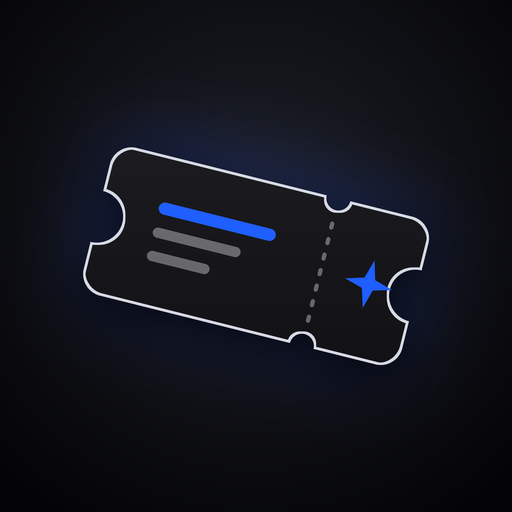
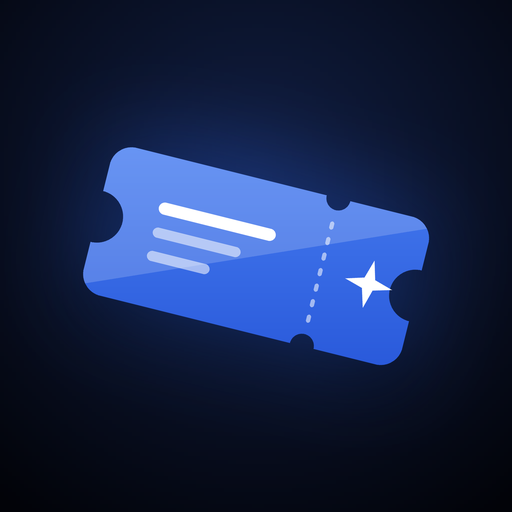
Add files via upload

diff --git a/index.html b/index.html
@@ -7,8 +7,6 @@
 <meta name="mobile-web-app-capable" content="yes">
 <meta name="apple-mobile-web-app-status-bar-style" content="black-translucent">
 <meta name="apple-mobile-web-app-title" content="Lumen">
-<meta name="theme-color" content="#ffffff" media="(prefers-color-scheme: light)">
-<meta name="theme-color" content="#000000" media="(prefers-color-scheme: dark)">
 <link rel="manifest" href="manifest.webmanifest">
 <link rel="apple-touch-icon" href="icon-180.png">
 <link rel="icon" href="icon-180.png">
@@ -168,14 +166,16 @@ textarea{width:100%;min-height:80px;font:13px ui-monospace,monospace;border-radi
 #splash.out{opacity:0;transform:scale(1.12);filter:blur(6px);pointer-events:none}
 .lg{width:150px;height:150px;position:relative;animation:lgIn .75s cubic-bezier(.2,1.4,.4,1) both}
 .lg svg{width:100%;height:100%;display:block;overflow:visible;filter:drop-shadow(0 14px 26px color-mix(in srgb,var(--blue) 45%,transparent))}
-.lg .tk{fill:#141417;fill-opacity:0;animation:draw .8s .05s cubic-bezier(.4,0,.2,1) both,tfill .4s .55s ease forwards;stroke:light-dark(#141417,#d7dae4);stroke-width:2.6;stroke-linejoin:round;stroke-dasharray:520}
+.lg .tk{fill:url(#tkg);transform-box:fill-box;transform-origin:center;animation:tkpop .7s .05s cubic-bezier(.2,1.3,.4,1) both}
+@keyframes tkpop{from{transform:translateX(-60%) rotate(-10deg);opacity:0}}
+.lg .tkg1{stop-color:color-mix(in srgb,var(--blue) 70%,#fff)}.lg .tkg2{stop-color:color-mix(in srgb,var(--blue) 80%,#000)}
 @keyframes draw{from{stroke-dashoffset:520}}
 @keyframes tfill{to{fill-opacity:1}}
 .lg .nt{display:none}
-.lg .pf{stroke:#ffffff59;stroke-width:2.5;stroke-dasharray:5 6;stroke-linecap:round;animation:dash .5s .45s ease-out both}
-.lg .l1{fill:var(--blue);transform-box:fill-box;transform-origin:left;animation:ln .4s .5s ease-out both}
-.lg .l2{fill:#ffffff5c;transform-box:fill-box;transform-origin:left;animation:ln .4s .6s ease-out both}
-.lg .st{fill:var(--blue);transform-box:fill-box;transform-origin:center;animation:star .6s .65s cubic-bezier(.2,1.6,.4,1) both}
+.lg .pf{stroke:#ffffff80;stroke-width:2.5;stroke-dasharray:5 6;stroke-linecap:round;animation:dash .5s .45s ease-out both}
+.lg .l1{fill:#fff;transform-box:fill-box;transform-origin:left;animation:ln .4s .5s ease-out both}
+.lg .l2{fill:#ffffffa0;transform-box:fill-box;transform-origin:left;animation:ln .4s .6s ease-out both}
+.lg .st{fill:#fff;transform-box:fill-box;transform-origin:center;animation:star .6s .65s cubic-bezier(.2,1.6,.4,1) both}
 .lg .shn{position:absolute;inset:22% 8%;border-radius:20px;overflow:hidden;mix-blend-mode:overlay;background:linear-gradient(105deg,transparent 40%,#ffffffcc 50%,transparent 60%) no-repeat;background-size:250% 100%;animation:shine .9s .7s ease-in-out both}
 @keyframes dash{from{stroke-dashoffset:60;opacity:0}}
 @keyframes star{from{transform:scale(0) rotate(-90deg)}}
@@ -196,6 +196,31 @@ textarea{width:100%;min-height:80px;font:13px ui-monospace,monospace;border-radi
 .av{color:var(--warn);font-weight:600}.avs{color:var(--warn);font-size:.45em;vertical-align:top;margin-left:1px}
 .avc{background:color-mix(in srgb,var(--warn) 16%,var(--bg))}.avc .ico{background:var(--bg);font-size:20px}
 .pp.avp{background:var(--warn);color:#1a1000}.pp.avp small{color:#1a1000b0}
+.exp{font-size:15px;color:var(--mute);margin:-2px 0 6px}.exp b{color:var(--blue);font-weight:700}
+.rot{position:fixed;inset:0;z-index:90;background:var(--bg);display:none;place-items:center;text-align:center;padding:20px}
+.rot svg{width:56px;height:56px;color:var(--blue);animation:rotI 1.6s ease-in-out infinite}
+@keyframes rotI{0%,30%{transform:rotate(90deg)}60%,100%{transform:rotate(0)}}
+@media (orientation:landscape) and (max-height:520px){.rot{display:grid}}
+.lv{margin-top:14px;background:var(--tint);border-radius:18px;padding:14px 16px;text-align:left}
+.lvh{font-size:13px;font-weight:600;color:var(--blue);display:flex;align-items:center;gap:8px}
+.dot{width:8px;height:8px;border-radius:50%;background:#34c759;box-shadow:0 0 0 0 #34c75988;animation:pulse 1.6s infinite}
+@keyframes pulse{70%{box-shadow:0 0 0 9px #34c75900}100%{box-shadow:0 0 0 0 #34c75900}}
+.lvn{font:700 34px/1.1 var(--num);letter-spacing:-.02em;margin:6px 0 10px;font-variant-numeric:tabular-nums}.lvn small{font-size:.5em;color:var(--blue)}
+.lvs{font-size:13px;color:var(--mute);margin-top:8px}.lvs b{color:var(--ink)}
+.lv .gbar i{transition:width 1s linear}
+.achh{background:var(--card);border-radius:18px;padding:14px 16px;margin-bottom:14px}
+#achsum{font-size:15px;color:var(--mute);margin-bottom:8px}#achsum b{font:700 26px var(--num);color:var(--ink)}
+.achs{display:grid;gap:10px}
+.ac{display:grid;grid-template-columns:52px minmax(0,1fr);gap:14px;align-items:center;background:var(--card);border-radius:18px;padding:12px 14px;opacity:.6}
+.ac.on{opacity:1}
+.ai{width:52px;height:52px;border-radius:16px;display:grid;place-items:center;font-size:26px;background:var(--bg);filter:grayscale(1)}
+.ac.on .ai{filter:none;background:color-mix(in srgb,var(--tc) 22%,var(--bg));box-shadow:inset 0 0 0 2px color-mix(in srgb,var(--tc) 70%,transparent)}
+.ac.on.t-l .ai{position:relative;overflow:hidden;box-shadow:0 0 18px color-mix(in srgb,var(--blue) 55%,transparent),inset 0 0 0 2px var(--blue)}
+.ac.on.t-l .ai::after{content:"";position:absolute;inset:-50%;background:conic-gradient(from 0deg,transparent 0 70%,#ffffff70 80%,transparent 90%);animation:spin 3s linear infinite}
+@keyframes spin{to{transform:rotate(1turn)}}
+.at b{display:block;font-weight:650}.at span{display:block;font-size:13px;color:var(--mute)}
+.at small{display:block;font-size:12px;margin-top:4px;color:var(--tc);font-weight:700}
+.ap{height:5px;border-radius:3px;background:var(--line);margin-top:7px;overflow:hidden}.ap i{display:block;height:100%;background:var(--tc)}
 .cmp{display:inline-block;margin-top:10px;font-size:13px;font-weight:700;padding:4px 10px;border-radius:999px}
 .cmp.up{color:var(--ok);background:color-mix(in srgb,var(--ok) 14%,var(--bg))}.cmp.dn{color:var(--warn);background:color-mix(in srgb,var(--warn) 14%,var(--bg))}
 .bd{display:grid;grid-template-columns:minmax(0,1fr) 90px 44px;grid-template-rows:auto auto;column-gap:12px;align-items:center;padding:10px 16px;min-height:56px}
@@ -214,7 +239,7 @@ textarea{width:100%;min-height:80px;font:13px ui-monospace,monospace;border-radi
 .view{display:none}.view.on{display:block;animation:vin .32s cubic-bezier(.2,.8,.2,1)}
 @keyframes vin{from{opacity:0}}
 .vh{padding-top:calc(env(safe-area-inset-top) + 12px)}.vh h1{font-size:34px;font-weight:800;letter-spacing:-.025em;margin:6px 0 16px}
-.tabs{position:fixed;left:0;right:0;bottom:0;z-index:5;display:grid;grid-template-columns:repeat(4,1fr);padding:4px 6px calc(4px + env(safe-area-inset-bottom));background:light-dark(#ffffffe0,#000000e0);backdrop-filter:saturate(180%) blur(18px);-webkit-backdrop-filter:saturate(180%) blur(18px);border-top:1px solid var(--line)}
+.tabs{position:fixed;left:0;right:0;bottom:0;z-index:5;display:grid;grid-template-columns:repeat(5,1fr);padding:4px 6px calc(4px + env(safe-area-inset-bottom));background:light-dark(#ffffffe0,#000000e0);backdrop-filter:saturate(180%) blur(18px);-webkit-backdrop-filter:saturate(180%) blur(18px);border-top:1px solid var(--line)}
 .tabs::after{content:"";position:absolute;left:0;right:0;top:100%;height:120px;background:inherit;backdrop-filter:inherit;-webkit-backdrop-filter:inherit}
 html{height:100%;min-height:-webkit-fill-available}
 body{min-height:100vh;min-height:100lvh}
@@ -278,7 +303,7 @@ label.gear{position:relative;overflow:hidden}label.gear input{position:absolute;
 </style>
 </head>
 <body>
-<div id="splash"><div class="lg"><svg viewBox="0 0 200 200" aria-hidden="true"><g transform="rotate(-14 100 100)"><path class="tk" d="M36 62h128a10 10 0 0 1 10 10v16a12 12 0 0 0 0 24v16a10 10 0 0 1-10 10H36a10 10 0 0 1-10-10v-16a12 12 0 0 0 0-24V72a10 10 0 0 1 10-10z"/><circle class="nt" cx="132" cy="62" r="6"/><circle class="nt" cx="132" cy="138" r="6"/><path class="pf" d="M132 74v52"/><rect class="l1" x="52" y="82" width="52" height="6" rx="3"/><rect class="l2" x="52" y="96" width="38" height="5" rx="2.5"/><rect class="l2" x="52" y="108" width="26" height="5" rx="2.5"/><path class="st" d="M154 88l3 9 9 3-9 3-3 9-3-9-9-3 9-3z"/></g></svg></div><div class="wm">Lumen</div><div class="by">Made by <b>Claude</b></div><div class="thx">Special thanks to Dávid</div></div>
+<div id="splash"><div class="lg"><svg viewBox="0 0 200 200" aria-hidden="true"><defs><linearGradient id="tkg" x1="0" y1="0" x2="0" y2="1"><stop class="tkg1" offset="0"/><stop class="tkg2" offset="1"/></linearGradient></defs><g transform="rotate(-14 100 100)"><path class="tk" d="M36 62h128a10 10 0 0 1 10 10v16a12 12 0 0 0 0 24v16a10 10 0 0 1-10 10H36a10 10 0 0 1-10-10v-16a12 12 0 0 0 0-24V72a10 10 0 0 1 10-10z"/><circle class="nt" cx="132" cy="62" r="6"/><circle class="nt" cx="132" cy="138" r="6"/><path class="pf" d="M132 74v52"/><rect class="l1" x="52" y="82" width="52" height="6" rx="3"/><rect class="l2" x="52" y="96" width="38" height="5" rx="2.5"/><rect class="l2" x="52" y="108" width="26" height="5" rx="2.5"/><path class="st" d="M154 88l3 9 9 3-9 3-3 9-3-9-9-3 9-3z"/></g></svg></div><div class="wm">Lumen</div><div class="by">Made by <b>Claude</b></div><div class="thx">Special thanks to Dávid</div></div>
 
 <div class="sb"></div>
 <div class="view on" id="vHome">
@@ -292,6 +317,7 @@ label.gear{position:relative;overflow:hidden}label.gear input{position:absolute;
   <div class="hero rise" style="--i:1">
     <div class="lbl" id="hlbl">Várható fizetés</div>
     <div class="big" id="net">0<small>Ft</small></div>
+    <div id="live"></div>
     <div class="sub" id="msub">–</div>
     <div class="cmp" id="cmp" hidden></div>
     <div class="goal" id="goal" hidden><div class="gbar"><i id="gfill"></i></div><div class="gl"><span id="gl1"></span><span id="gl2"></span></div></div>
@@ -330,6 +356,11 @@ label.gear{position:relative;overflow:hidden}label.gear input{position:absolute;
   <p class="note">Ezekre a napokra dupla bér jár, érdemes beírni őket.</p>
   <div class="grp" id="hols"></div>
 </div></div>
+
+<div class="view" id="vAch"><div class="vh w"><h1>Jelvények</h1></div><main class="w">
+  <div class="achh"><div id="achsum"></div><div class="gbar"><i id="achbar"></i></div></div>
+  <div class="achs" id="achs"></div>
+</main></div>
 
 <div class="view" id="vSet"><div class="vh w"><h1>Beállítások</h1></div><div class="w">
   <div class="gt">Fizetés</div>
@@ -378,11 +409,12 @@ label.gear{position:relative;overflow:hidden}label.gear input{position:absolute;
   </div>
   <textarea id="ctext" hidden readonly aria-label="Másolandó szöveg"></textarea>
   <p class="note">Éjfél után esti bérrel számol, szünetet nem von le. Egy műszakra koppintva átírhatod az idejét. Minden adat csak ezen a telefonon van.</p>
-  <p class="made" id="made">Made by <b>Claude</b><span class="ver">Lumen v8</span></p>
+  <p class="made" id="made">Made by <b>Claude</b><span class="ver">Lumen v9.2</span></p>
 </div></div>
 
-<nav class="tabs" id="tabs"><button class="tb press on" data-v="vHome"><svg viewBox="0 0 24 24" fill="none" stroke="currentColor" stroke-width="2" stroke-linecap="round" stroke-linejoin="round"><path d="M3 11l9-7 9 7v9a1 1 0 0 1-1 1h-5v-6h-6v6H4a1 1 0 0 1-1-1z"/></svg><span>Főoldal</span></button><button class="tb press" data-v="vMates"><svg viewBox="0 0 24 24" fill="none" stroke="currentColor" stroke-width="2" stroke-linecap="round" stroke-linejoin="round"><circle cx="9" cy="8" r="3.5"/><path d="M2.5 20c.6-3.6 3.2-5.5 6.5-5.5s5.9 1.9 6.5 5.5"/><circle cx="17" cy="9" r="2.6"/><path d="M16.5 14.6c2.6.2 4.4 1.9 5 5.4"/></svg><span>Kollégák</span></button><button class="tb press" data-v="vGoal"><svg viewBox="0 0 24 24" fill="none" stroke="currentColor" stroke-width="2" stroke-linecap="round" stroke-linejoin="round"><circle cx="12" cy="12" r="9"/><circle cx="12" cy="12" r="5"/><circle cx="12" cy="12" r="1.4"/></svg><span>Cél</span></button><button class="tb press" data-v="vSet"><svg viewBox="0 0 24 24" fill="none" stroke="currentColor" stroke-width="2" stroke-linecap="round" stroke-linejoin="round"><path d="M4 7h10M18 7h2M4 17h4M12 17h8"/><circle cx="16" cy="7" r="2.3"/><circle cx="10" cy="17" r="2.3"/></svg><span>Beállítások</span></button></nav>
+<nav class="tabs" id="tabs"><button class="tb press on" data-v="vHome"><svg viewBox="0 0 24 24" fill="none" stroke="currentColor" stroke-width="2" stroke-linecap="round" stroke-linejoin="round"><path d="M3 11l9-7 9 7v9a1 1 0 0 1-1 1h-5v-6h-6v6H4a1 1 0 0 1-1-1z"/></svg><span>Főoldal</span></button><button class="tb press" data-v="vMates"><svg viewBox="0 0 24 24" fill="none" stroke="currentColor" stroke-width="2" stroke-linecap="round" stroke-linejoin="round"><circle cx="9" cy="8" r="3.5"/><path d="M2.5 20c.6-3.6 3.2-5.5 6.5-5.5s5.9 1.9 6.5 5.5"/><circle cx="17" cy="9" r="2.6"/><path d="M16.5 14.6c2.6.2 4.4 1.9 5 5.4"/></svg><span>Kollégák</span></button><button class="tb press" data-v="vGoal"><svg viewBox="0 0 24 24" fill="none" stroke="currentColor" stroke-width="2" stroke-linecap="round" stroke-linejoin="round"><circle cx="12" cy="12" r="9"/><circle cx="12" cy="12" r="5"/><circle cx="12" cy="12" r="1.4"/></svg><span>Cél</span></button><button class="tb press" data-v="vAch"><svg viewBox="0 0 24 24" fill="none" stroke="currentColor" stroke-width="2" stroke-linecap="round" stroke-linejoin="round"><path d="M8 21h8M12 17v4M7 4h10v5a5 5 0 0 1-10 0z"/><path d="M17 5h3v2a3 3 0 0 1-3 3M7 5H4v2a3 3 0 0 0 3 3"/></svg><span>Jelvények</span></button><button class="tb press" data-v="vSet"><svg viewBox="0 0 24 24" fill="none" stroke="currentColor" stroke-width="2" stroke-linecap="round" stroke-linejoin="round"><path d="M4 7h10M18 7h2M4 17h4M12 17h8"/><circle cx="16" cy="7" r="2.3"/><circle cx="10" cy="17" r="2.3"/></svg><span>Beállítások</span></button></nav>
 <div class="wrp" id="wr" hidden><div class="wbars" id="wbars"></div><button class="wx" id="wx" aria-label="Bezárás">×</button><div class="ws" id="ws"></div><div class="wtap"><span id="wprev"></span><span id="wnext"></span></div></div>
+<div class="rot" aria-hidden="true"><div><svg viewBox="0 0 24 24" fill="none" stroke="currentColor" stroke-width="2" stroke-linecap="round" stroke-linejoin="round"><rect x="7" y="2" width="10" height="20" rx="2.5"/><path d="M11 18h2"/></svg><p style="margin:14px 0 0;font-weight:600">Fordítsd álló helyzetbe a telefont</p></div></div>
 <div class="toast" id="toast" role="status"></div>
 <div class="scrim" id="scrim" hidden></div>
 <div class="sheet" id="sheet" role="dialog" aria-modal="true" hidden><div class="grip"></div><div id="sbody" style="display:flex;flex-direction:column;min-height:0"></div></div>
@@ -478,12 +510,13 @@ function render(){
   const rows=days.map(d=>{const c=calc(d);tot+=c.pay;dm+=c.dm;em+=c.em;hx+=c.hx;return{d,c}});
   const fee=days.length?S.fee:0,net=Math.max(0,tot-fee);
   const isPast=cur<today.slice(0,7);
-  $("hlbl").textContent=isPast?`Keresett · ${HU_M[mo-1]}`:`Várható fizetés · ${HU_M[mo-1]}`;
-  countTo($("net"),net);
+  const isFut=cur>today.slice(0,7);let earned=0;{let pp=0,np=0;rows.forEach(({d,c})=>{if(d<today&&!c.e.bad){pp+=c.pay;np++}});earned=np?Math.max(0,pp-S.fee):0}
+  $("hlbl").textContent=isPast?`Keresett · ${HU_M[mo-1]}`:isFut?`Beosztva · ${HU_M[mo-1]}`:`Eddig keresett · ${HU_M[mo-1]}`;
+  HERO={cur:!isPast&&!isFut,base:earned};countTo($("net"),isPast||isFut?(isPast?net:0):earned+liveNow().part);
   const left=days.filter(d=>d>=today).length;
   $("msub").textContent=!DATA.at?"Töltsd be a beosztásodat a lenti gombbal":days.length?`${days.length} műszak · ${hrs(dm+em)} óra`+(left?` · ${left} még hátra`:""):"Ebben a hónapban nincs műszakod";
   const g=$("goal");g.hidden=!(S.goal>0&&DATA.at);
-  if(!g.hidden){const p=Math.min(100,net/S.goal*100);requestAnimationFrame(()=>$("gfill").style.width=p+"%");$("gl1").textContent=`Cél: ${ft(S.goal)}`;$("gl2").textContent=net>=S.goal?"Megvan ✓":`még ${ft(S.goal-net)}`}
+  if(!g.hidden){const gv=isPast?net:earned;const p=Math.min(100,gv/S.goal*100);requestAnimationFrame(()=>$("gfill").style.width=p+"%");$("gl1").textContent=`Cél: ${ft(S.goal)}`;$("gl2").textContent=gv>=S.goal?"Megvan ✓":`még ${ft(S.goal-gv)}`}
   const br=[[`${hrs(dm)} óra × ${fmt(S.r1)} Ft`,dm/60*S.r1],[`${hrs(em)} óra × ${fmt(S.r2)} Ft`,em/60*S.r2],["Ünnepnapi pótlék",hx],["Rendszerhasználat",-fee]].filter(r=>Math.round(r[1]));
   $("brk").innerHTML=(br.map(r=>`<div><span>${r[0]}</span><span>${r[1]<0?"−"+ft(-r[1]):ft(r[1])}</span></div>`).join("")||"<div><span>Nincs mit részletezni</span></div>")+(br.length?`<div style="border-top:1px solid var(--line);padding-top:6px;font-weight:700"><span>Összesen</span><span>${ft(net)}</span></div>`:"");
   $("tg").hidden=!days.length;
@@ -497,14 +530,31 @@ function render(){
    if(DATA.at&&days.length&&pv>0){const df=Math.round((net-pv)/pv*100);cel.hidden=false;cel.className="cmp "+(df>=0?"up":"dn");cel.textContent=`${df>=0?"▲":"▼"} ${Math.abs(df)}% ${HU_HOZ[pm-1]} képest`}else cel.hidden=true}
   const n=pending().length+dlPend().length;$("icst").textContent=n?`Naptárba (${n})`:"Naptárba";
   $("whoname").textContent=S.name||"nincs megadva";
-  renderCards();renderStats();renderHist();renderHols();if(typeof renderWl==="function")renderWl();
+  renderCards();renderStats();renderHist();renderHols();liveCard();if(typeof checkAch==="function")checkAch(!BOOTED);if(typeof renderWl==="function")renderWl();
 }
 function card(ic,t,v,blue){return `<div class="nc${blue?" b":""}"><div class="ico">${I[ic]}</div><div><div class="nt">${t}</div><div class="nv">${v}</div></div></div>`}
+let HERO={cur:false,base:0};
+function payPart(d,uptoAbs){const e=eff(d);if(e.bad)return 0;const c=calc(d);let a=e.a,b=c.end;const lim=Math.min(b,uptoAbs);let pay=0;for(let m=a;m<lim;m++){const off=Math.floor(m/1440),mm=m%1440,day=off?addD(d,off):d;const evn=mm>=1080||mm<360;pay+=((evn?S.r2:S.r1)/60)*(isHol(day)?S.hol:1)}
+  if(lim>a&&lim<b){const m=Math.floor(lim),fr=lim-m,off=Math.floor(m/1440),mm=m%1440,day=off?addD(d,off):d,evn=mm>=1080||mm<360;pay+=((evn?S.r2:S.r1)/60)*(isHol(day)?S.hol:1)*fr}return pay}
+function liveNow(){const n=new Date(),t=iso(n);for(const d of [addD(t,-1),t]){if(!(d in DATA.shifts))continue;const e=eff(d);if(e.bad)continue;const c=calc(d);const rel_=(n-pd(d))/6e4;if(rel_>=e.a&&rel_<c.end)return{d,e,c,rel:rel_,part:payPart(d,rel_)}}return{part:0}}
+function liveCard(){const n=new Date(),t=iso(n),L=liveNow(),el=$("live");
+  if(L.d){const tot=L.c.pay,left=L.c.end-L.rel,p=(L.rel-L.e.a)/(L.c.end-L.e.a)*100;
+    if(!el.dataset.on){el.dataset.on="1";el.innerHTML=`<div class="lv"><div class="lvh"><span class="dot"></span>Most dolgozol · ${hm(L.e.a)}–${hm(L.c.end%1440)}</div><div class="lvn" id="lvn"></div><div class="gbar"><i id="lvb"></i></div><div class="lvs" id="lvs"></div></div>`}
+    $("lvn").innerHTML=L.part.toLocaleString("hu-HU",{minimumFractionDigits:2,maximumFractionDigits:2}).replace(/[\u00a0\u202f]/g," ")+"<small> Ft</small>";$("lvb").style.width=p+"%";
+    $("lvs").textContent=`a ${ft(tot)}-ból · még ${Math.floor(left/60)} ó ${Math.floor(left%60)} p · ${fmt((L.rel<1080?S.r1:S.r2)*(isHol(t)?S.hol:1))} Ft/óra`;
+    if(HERO.cur&&cur===today.slice(0,7)){$("net").innerHTML=fmt(HERO.base+L.part)+"<small>Ft</small>"}return}
+  el.dataset.on="";
+  if(DATA.at&&(t in DATA.shifts)){const e=eff(t);if(!e.bad){const c=calc(t),now=(n-pd(t))/6e4;if(now<e.a){const w=e.a-now;el.innerHTML=`<div class="lv pre"><div class="lvh">Ma ${hm(e.a)}-tól</div><div class="lvs" style="margin:0"><b>${ft(c.pay)}</b> vár rád · ${Math.floor(w/60)} ó ${Math.floor(w%60)} p múlva kezdesz</div></div>`;return}}}
+  el.innerHTML=""}
+setInterval(liveCard,1000);
+function weekCard(){const t=new Date(),wd=(t.getDay()+6)%7,mon=addD(today,-wd),sun=addD(mon,6);const ds=Object.keys(DATA.shifts).filter(d=>d>=mon&&d<=sun&&!eff(d).bad);if(!ds.length)return"";
+  let p=0,m=0,done=0;ds.forEach(d=>{const c=calc(d);p+=c.pay;m+=c.mins;if(d<today)done+=c.pay});return card("cal","Ezen a héten",`${ds.length} műszak · ${hrs(m)} óra · <em>${ft(p)}</em>${done&&done<p?` <span style="color:var(--mute);font-weight:500">(${ft(done)} már megvan)</span>`:""}`)}
 function renderCards(){
   const out=[];
   if(DATA.at){
     const fut=Object.keys(DATA.shifts).filter(d=>d>=today&&!eff(d).bad).sort();
-    if(fut.length){const d=fut[0],c=calc(d),dt=pd(d);out.push(card("clk","Következő műszak",`${HU_DL[dt.getDay()]}, ${hday(d)} · ${hm(c.e.a)}–${hm(c.end%1440)} <em>· ${rel(d)}</em>`,true));if(avOn(d)){const nm=matesOf(d,eff(d),c).find(isAv);out.push(`<div class="nc avc"><div class="ico">⚡</div><div><div class="nt">${esc(first(nm))} is veled lesz ${rel(d)}</div><div class="nv">${esc(S.avm||AVD)}</div></div></div>`)}}
+    if(fut.length){const d=fut[0],c=calc(d),dt=pd(d);out.push(card("clk","Következő műszak",`${HU_DL[dt.getDay()]}, ${hday(d)} · ${hm(c.e.a)}–${hm(c.end%1440)} <em>· ${liveNow().d===d?"most zajlik":rel(d)}</em>`,true));if(avOn(d)){const nm=matesOf(d,eff(d),c).find(isAv);out.push(`<div class="nc avc"><div class="ico">⚡</div><div><div class="nt">${esc(first(nm))} is veled lesz ${rel(d)}</div><div class="nv">${esc(S.avm||AVD)}</div></div></div>`)}}
+    {const wc=weekCard();if(wc)out.push(wc)}
     const w=(DATA.weeks||[])[0];
     if(w&&w.dl){const dl=new Date(w.dl),ms=dl-NOW;if(ms>0){const days=Math.floor(ms/864e5),h=Math.floor(ms/36e5);const left=days>=1?`még ${days} nap`:`még ${h} óra`;const end=addD(w.start,6);
       out.push(card("pen",`Kérelem a ${hday(w.start)}–${hday(end)} hétre`,`Határidő: ${hday(iso(dl))} ${pad(dl.getHours())}:${pad(dl.getMinutes())} · ${w.req?`<em>${left}, ${w.req} napot beadtál</em>`:`<span class="wr">${left}, még nem adtad le</span>`}`,!w.req))}}
@@ -718,11 +768,74 @@ $("avb").onclick=async()=>{const names=(X&&X.names)||DATA.names||[];if(!names.le
 $("avm").value=S.avm||"";$("avm").addEventListener("change",()=>{S.avm=$("avm").value.trim();ls.set("mm.set",S);render()});$("avn").textContent=S.av?first(S.av):"nincs";
 $("secret").hidden=!S.secret;$("favn").textContent=S.fav?first(S.fav):"nincs";
 
+
+/* jelvények */
+const TIER={b:["Bronz","#c98a55"],s:["Ezüst","#aeb6c4"],g:["Arany","#f5c542"],l:["SV TYPE","var(--blue)"]};
+function achStats(){const all=Object.keys(DATA.shifts).filter(d=>d<today&&!eff(d).bad).sort();let min=0,pay=0,wk=0,sun=0,cl=0,op=0,late=0,long=0,hol=0,xmas=0,nye=0,ny1=0;const mons={};
+  all.forEach(d=>{const e=eff(d),c=calc(d),raw=String(DATA.shifts[d]||"").toLowerCase(),wd=pd(d).getDay();min+=c.mins;pay+=c.pay;if(wd===0||wd===6)wk++;if(wd===0)sun++;if(/z\s*$/.test(raw))cl++;if(/^\s*ny/.test(raw)||e.a<=600)op++;if(c.end>=1410)late++;if(c.mins>=600)long++;if(isHol(d))hol++;if(/-12-2[456]$/.test(d))xmas++;if(/-12-31$/.test(d))nye++;if(/-01-01$/.test(d))ny1++});
+  const ms=[...new Set(all.map(d=>d.slice(0,7)))];let best=0,tot=0;ms.forEach(m=>{const v=mSum(m).past;tot+=v;best=Math.max(best,v)});
+  let st=all.length?1:0,bs=st;for(let i=1;i<all.length;i++){if(dd(all[i-1],all[i])===1){st++;bs=Math.max(bs,st)}else st=1}
+  const C={};all.forEach(d=>matesOf(d,eff(d),calc(d)).forEach(n=>{const k=norm(n);C[k]=(C[k]||0)+1}));const ppl=Object.keys(C).length,top=Math.max(0,...Object.values(C));
+  const fav=S.fav?C[norm(S.fav)]||0:0,av=S.av?C[norm(S.av)]||0:0;
+  const W=(DATA.weeks||[]).filter(w=>w.start<today&&w.req>0);const perfect=W.filter(w=>w.req>=3&&w.got>=w.req).length;
+  const goalN=S.goal>0?ms.filter(m=>mSum(m).past>=S.goal).length:0;
+  return{n:all.length,h:min/60,tot,best,bs,wk,sun,cl,op,late,long,hol,xmas,nye,ny1,ppl,top,fav,av,weeks:W.length,perfect,notes:Object.keys(NOTES).length,goalN,secret:!!S.secret,bk:!!S.bk,wr:!!S.wr,acc:!!S.accent,cal:Object.keys(EXP).length>0}}
+const ACH=[
+ ["s50","🎟","Törzstag","50 műszak","b",x=>x.n,50],
+ ["s150","🎬","Veterán","150 műszak","s",x=>x.n,150],
+ ["s300","🏅","A mozi lelke","300 műszak","g",x=>x.n,300],
+ ["s600","👑","Örök jegykezelő","600 műszak","l",x=>x.n,600],
+ ["h200","⏱","200 óra","200 ledolgozott óra","b",x=>x.h,200],
+ ["h500","⌛","500 óra","500 ledolgozott óra","s",x=>x.h,500],
+ ["h1000","🕰","Ezer óra","1000 ledolgozott óra","g",x=>x.h,1000],
+ ["h3000","🌌","Háromezer óra","3000 ledolgozott óra","l",x=>x.h,3000],
+ ["f250k","💵","Negyedmillás","250 000 Ft összesen","b",x=>x.tot,25e4],
+ ["f500k","💰","Félmillás","500 000 Ft összesen","s",x=>x.tot,5e5],
+ ["f1m","💎","Milliomos","1 000 000 Ft összesen","g",x=>x.tot,1e6],
+ ["f3m","🏦","Hárommilliós","3 000 000 Ft összesen","l",x=>x.tot,3e6],
+ ["m150","📈","Erős hónap","Egy hónapban 150 000 Ft","b",x=>x.best,15e4],
+ ["m200","🚀","Rekordhónap","Egy hónapban 200 000 Ft","s",x=>x.best,2e5],
+ ["m300","🌠","Kasszasiker","Egy hónapban 300 000 Ft","g",x=>x.best,3e5],
+ ["m350","🪐","Teltház","Egy hónapban 350 000 Ft","l",x=>x.best,35e4],
+ ["st3","🔥","Lendületben","3 nap egymás után","b",x=>x.bs,3],
+ ["st4","⚡","Teljes hét","4 nap egymás után","s",x=>x.bs,4],
+ ["st6","💫","Két hét határán","6 nap egymás után","g",x=>x.bs,6],
+ ["st8","☄","Megállíthatatlan","8 nap egymás után","l",x=>x.bs,8],
+ ["wk50","🗓","Hétvégi harcos","50 hétvégi műszak","g",x=>x.wk,50],
+ ["sun30","☀","Vasárnapi rutin","30 vasárnapi műszak","s",x=>x.sun,30],
+ ["cl50","🌙","Zárókirály","50 zárás","g",x=>x.cl,50],
+ ["op50","🌅","Nyitómester","50 nyitás","g",x=>x.op,50],
+ ["late25","🦉","Éjjeli bagoly","25 műszak 23:30 utáni végzéssel","s",x=>x.late,25],
+ ["long","🏃","Maraton","Egy legalább 10 órás műszak","g",x=>x.long,1],
+ ["hol3","🎉","Ünnepi hős","3 ünnepnapi műszak","s",x=>x.hol,3],
+ ["hol10","🎆","Duplázó","10 ünnepnapi műszak","l",x=>x.hol,10],
+ ["xmas","🎄","Karácsonyi angyal","Dolgoztál dec. 24–26. között","g",x=>x.xmas,1,1],
+ ["nye","🥂","Szilveszteri vetítés","Dolgoztál dec. 31-én","g",x=>x.nye,1,1],
+ ["ny1","🎇","Újévi premier","Dolgoztál jan. 1-jén","g",x=>x.ny1,1,1],
+ ["ppl50","🤝","Csapatjátékos","50 különböző kollégával dolgoztál","s",x=>x.ppl,50],
+ ["ppl100","🌍","Mindenki ismer","100 különböző kollégával dolgoztál","g",x=>x.ppl,100],
+ ["bff","👯","Legjobb haver","50 közös műszak ugyanazzal a kollégával","g",x=>x.top,50],
+ ["fav","✦","Csillagjegy","25 közös műszak a különleges kollégával","l",x=>x.fav,25,1],
+ ["av","🛡","Túlélő","15 műszakot kibírtál a figyelmeztető kollégával","g",x=>x.av,15,1],
+ ["perf","🎯","Mesterlövész","5 héten minden beírt napot megkaptál (min. 3)","g",x=>x.perfect,5],
+ ["w40","📮","Kitartó","40 hétre írtál be","s",x=>x.weeks,40],
+ ["goal","🏁","Célratörő","3 hónapban teljesítetted a havi célodat","g",x=>x.goalN,3],
+ ["notes","📝","Naplóíró","25 jegyzet a műszakjaidhoz","b",x=>x.notes,25],
+ ["sec","🕵","Felfedező","Megtaláltad a titkot","b",x=>x.secret?1:0,1,1],
+ ["wr","🎞","Évértékelő","Megnézted a Wrappedet","b",x=>x.wr?1:0,1,1],
+];
+let ACHD=ls.get("mm.ach2",{});
+function checkAch(silent){if(!DATA.at)return;const x=achStats(),nw=[];ACH.forEach(a=>{if(ACHD[a[0]]&&a[5](x)<a[6])delete ACHD[a[0]]});ACH.forEach(a=>{if(!ACHD[a[0]]&&a[5](x)>=a[6]){ACHD[a[0]]=today;nw.push(a)}});if(nw.length){ls.set("mm.ach2",ACHD);if(!silent){const a=nw[nw.length-1];setTimeout(()=>{toast(`${a[1]} Új jelvény: ${a[2]}${nw.length>1?` (+${nw.length-1})`:""}`);if(nw.some(z=>z[4]==="l"||z[4]==="g"))confetti()},700)}}}
+function renderAch(){const x=achStats(),got=ACH.filter(a=>ACHD[a[0]]).length;$("achsum").innerHTML=`<b>${got}</b> / ${ACH.length} jelvény`;$("achbar").style.width=got/ACH.length*100+"%";
+  const ord={l:0,g:1,s:2,b:3};const L=[...ACH].sort((a,b)=>(!!ACHD[b[0]])-(!!ACHD[a[0]])||ord[a[4]]-ord[b[4]]);
+  $("achs").innerHTML=L.map(a=>{const on=!!ACHD[a[0]],v=a[5](x),pr=Math.min(1,v/a[6]),hid=a[7]&&!on,[tn,tc]=TIER[a[4]];
+   return `<div class="ac${on?" on":""} t-${a[4]}" style="--tc:${tc}"><div class="ai">${hid?"?":a[1]}</div><div class="at"><b>${hid?"Titkos jelvény":esc(a[2])}</b><span>${hid?"Még nem fedezted fel":esc(a[3])}</span>${on?`<small>${tn} · ${hday(ACHD[a[0]])}</small>`:`<div class="ap"><i style="width:${pr*100}%"></i></div><small>${tn}${a[6]>1&&!hid?` · ${fmt(Math.min(v,a[6]))} / ${fmt(a[6])}`:""}</small>`}</div></div>`}).join("")}
+
 /* tabs */
 let view="vHome";
 function enter(root){if(matchMedia("(prefers-reduced-motion: reduce)").matches)return;const els=[...root.querySelectorAll(":scope>.vh, :scope>.w>*, :scope>main>*, :scope>header, :scope>main>.hero, :scope>main>.cards, :scope>main>section")].filter((e,i,a)=>a.indexOf(e)===i&&e.offsetParent!==null).slice(0,10);
   els.forEach((e,i)=>e.animate([{opacity:0,transform:"translateY(14px)"},{opacity:1,transform:"none"}],{duration:420,delay:i*45,easing:"cubic-bezier(.2,.8,.2,1)",fill:"backwards"}))}
-function show(v){if(v===view)return;view=v;document.querySelectorAll(".view").forEach(x=>x.classList.toggle("on",x.id===v));document.querySelectorAll(".tb").forEach(b=>b.classList.toggle("on",b.dataset.v===v));window.scrollTo(0,0);if(v==="vMates")renderMates();if(v==="vGoal")renderGoal();enter($(v));const tb=document.querySelector(`.tb[data-v="${v}"] svg`);if(tb)tb.animate([{transform:"scale(.7)"},{transform:"scale(1.15)"},{transform:"scale(1.06) translateY(-1px)"}],{duration:380,easing:"cubic-bezier(.2,1.4,.4,1)"})}
+function show(v){if(v===view)return;view=v;document.querySelectorAll(".view").forEach(x=>x.classList.toggle("on",x.id===v));document.querySelectorAll(".tb").forEach(b=>b.classList.toggle("on",b.dataset.v===v));window.scrollTo(0,0);if(v==="vMates")renderMates();if(v==="vGoal")renderGoal();if(v==="vAch")renderAch();enter($(v));const tb=document.querySelector(`.tb[data-v="${v}"] svg`);if(tb)tb.animate([{transform:"scale(.7)"},{transform:"scale(1.15)"},{transform:"scale(1.06) translateY(-1px)"}],{duration:380,easing:"cubic-bezier(.2,1.4,.4,1)"})}
 $("tabs").addEventListener("click",e=>{const b=e.target.closest("[data-v]");if(b)show(b.dataset.v)});
 
 /* kollégák */
@@ -791,7 +904,7 @@ function wshow(i){if(i<0)i=0;if(i>=WS.length){wclose();return}wi=i;clearTimeout(
   $("ws").querySelectorAll("[data-c]").forEach(el=>{const to=+el.dataset.c,t0=performance.now(),isF=el.hasAttribute("data-ft"),isP=el.hasAttribute("data-p");const st=t=>{const k=Math.min(1,(t-t0)/1100),v=Math.round(to*(1-Math.pow(1-k,3)));el.innerHTML=fmt(v)+(isF?"<small>Ft</small>":isP?"<small>%</small>":"");if(k<1)requestAnimationFrame(st)};requestAnimationFrame(st)});
   wt=setTimeout(()=>wshow(wi+1),6000)}
 function wrapYears(){const ys=[...new Set(Object.keys(DATA.shifts).map(d=>+d.slice(0,4)))].sort((a,b)=>b-a);const y=NOW.getFullYear(),late=NOW.getMonth()===11&&NOW.getDate()>=30;return ys.filter(Y=>(Y<y||(Y===y&&late)||location.hash==="#wrapped")&&wrapData(Y))}
-function openWrapped(Y0){const Y=Y0||wrapYear(),w=Y&&wrapData(Y);if(!w){toast("Még nincs elég adat az évedről.");return}WS=slides(w);const el=$("wr");el.hidden=false;if(!el.querySelector(".bgx"))el.insertAdjacentHTML("afterbegin",'<div class="bgx"></div>');confetti();wshow(0)}
+function openWrapped(Y0){S.wr=1;ls.set("mm.set",S);const Y=Y0||wrapYear(),w=Y&&wrapData(Y);if(!w){toast("Még nincs elég adat az évedről.");return}WS=slides(w);const el=$("wr");el.hidden=false;if(!el.querySelector(".bgx"))el.insertAdjacentHTML("afterbegin",'<div class="bgx"></div>');confetti();wshow(0)}
 function wclose(){clearTimeout(wt);$("wr").hidden=true}
 $("wx").onclick=wclose;$("wprev").onclick=()=>wshow(wi-1);$("wnext").onclick=()=>wshow(wi+1);
 $("cards").addEventListener("click",e=>{if(e.target.closest("#wcard"))openWrapped()});
@@ -799,11 +912,11 @@ $("wlist").addEventListener("click",e=>{const b=e.target.closest("[data-y]");if(
 function renderWl(){const ys=wrapYears();$("wsec").hidden=!ys.length;$("wlist").innerHTML=ys.map(Y=>`<button class="it lnk press" data-y="${Y}"><span><span class="itl">${Y} Wrapped</span><span class="its">Az éved a moziban</span></span><span class="chev">›</span></button>`).join("")}
 
 /* mentés */
-$("bk").onclick=()=>{const data={app:"mozi",v:8,at:today,S,DATA,OV,EXP,NOTES};const url=URL.createObjectURL(new Blob([JSON.stringify(data)],{type:"application/json"}));const a=document.createElement("a");a.href=url;a.download=`mozi-mentes-${today}.json`;document.body.appendChild(a);a.click();a.remove();setTimeout(()=>URL.revokeObjectURL(url),60000);toast("Mentés kész. Tedd el a Fájlok appba.")};
+$("bk").onclick=()=>{S.bk=1;ls.set("mm.set",S);const data={app:"mozi",v:8,at:today,S,DATA,OV,EXP,NOTES};const url=URL.createObjectURL(new Blob([JSON.stringify(data)],{type:"application/json"}));const a=document.createElement("a");a.href=url;a.download=`mozi-mentes-${today}.json`;document.body.appendChild(a);a.click();a.remove();setTimeout(()=>URL.revokeObjectURL(url),60000);toast("Mentés kész. Tedd el a Fájlok appba.")};
 $("rs").addEventListener("change",async e=>{const f=e.target.files[0];e.target.value="";if(!f)return;try{const o=JSON.parse(await f.text());if(o.app!=="mozi"||!o.S)throw 0;ls.set("mm.set",o.S);ls.set("mm.data",o.DATA||{});ls.set("mm.ov",o.OV||{});ls.set("mm.exp",o.EXP||{});ls.set("mm.notes",o.NOTES||{});toast("Visszaállítva");setTimeout(()=>location.reload(),700)}catch(x){toast("Ez nem Mozi mentésfájl.")}});
 
 applyAcc();drawSw();
-fill();render();
+let BOOTED=false;fill();render();BOOTED=true;
 const sp=$("splash");let gone=0;const bye=()=>{if(gone++)return;sp.classList.add("out");setTimeout(()=>sp.remove(),650)};sp.addEventListener("pointerdown",()=>{document.documentElement.style.setProperty("--d","0.1s");bye()});setTimeout(bye,1000);setTimeout(()=>document.documentElement.classList.add("booted"),2200);
 if("serviceWorker" in navigator)navigator.serviceWorker.register("sw.js").catch(()=>{});
 }

diff --git a/sw.js b/sw.js
@@ -1,4 +1,4 @@
-const C="lumen-v8",F=["./","index.html","manifest.webmanifest","icon-180.png","icon-512.png"];
+const C="lumen-v9-2",F=["./","index.html","manifest.webmanifest","icon-180.png","icon-512.png"];
 self.addEventListener("install",e=>{e.waitUntil(caches.open(C).then(c=>c.addAll(F)));self.skipWaiting()});
 self.addEventListener("activate",e=>{e.waitUntil(caches.keys().then(k=>Promise.all(k.filter(x=>x!==C).map(x=>caches.delete(x)))).then(()=>self.clients.claim()))});
 self.addEventListener("fetch",e=>{const r=e.request;if(r.method!=="GET")return;
